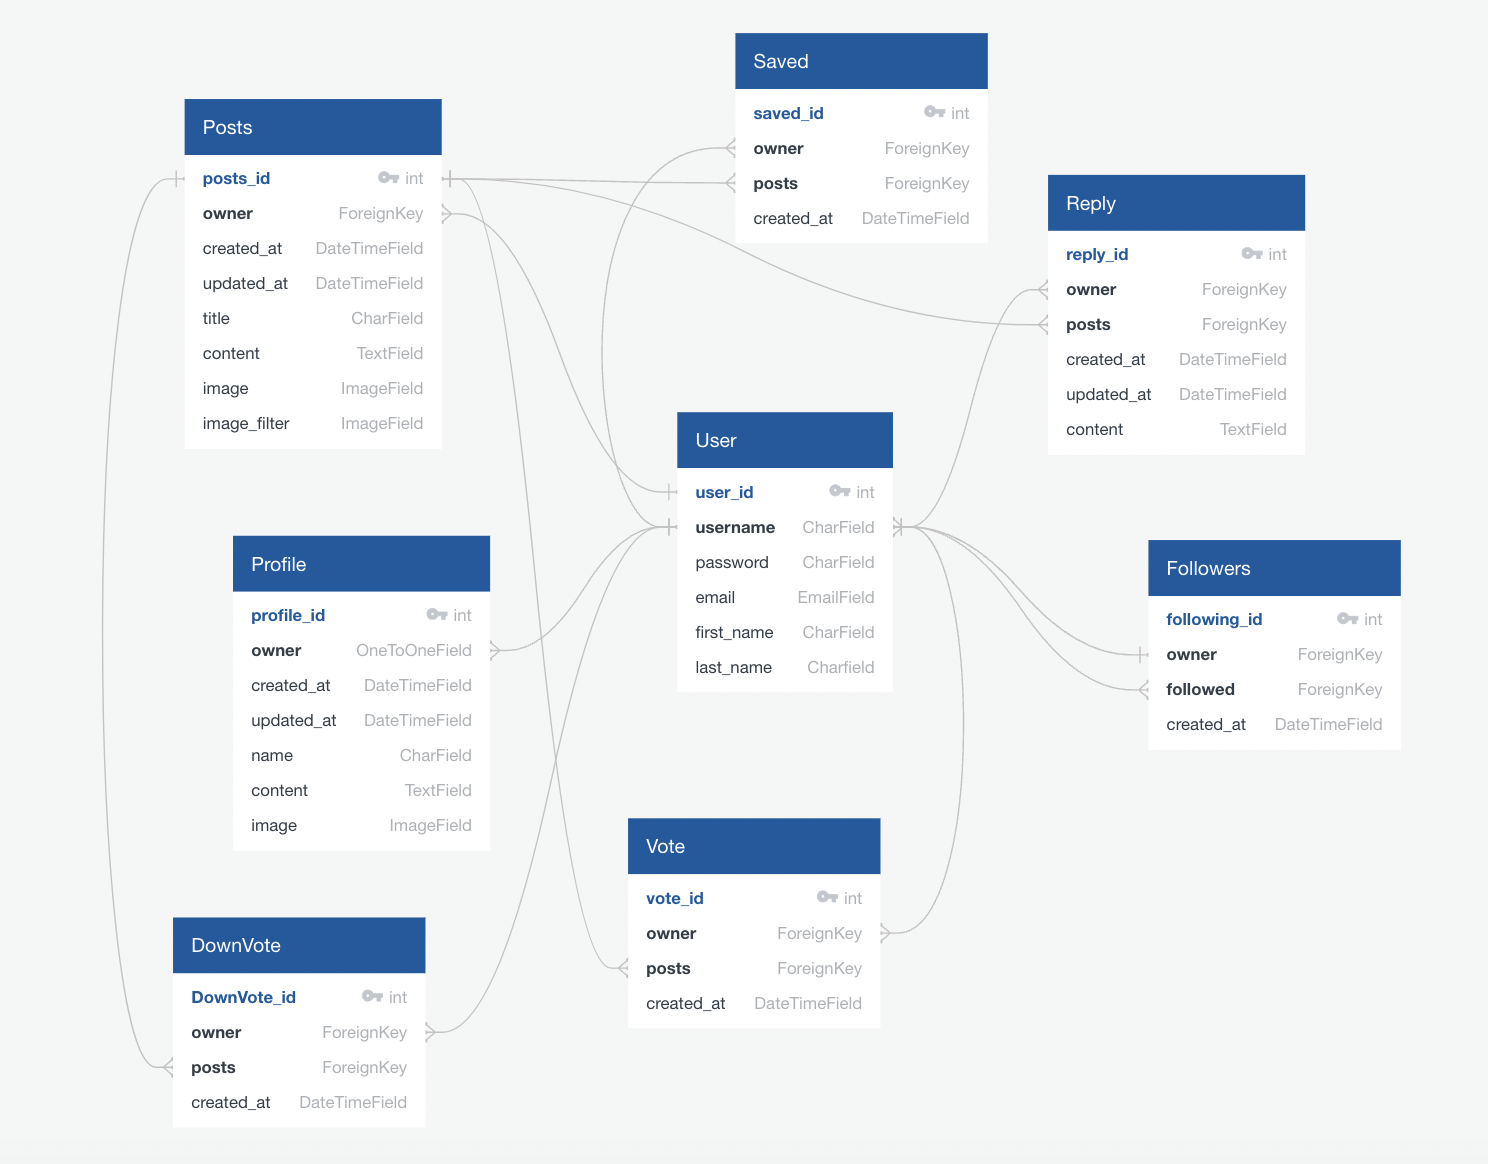
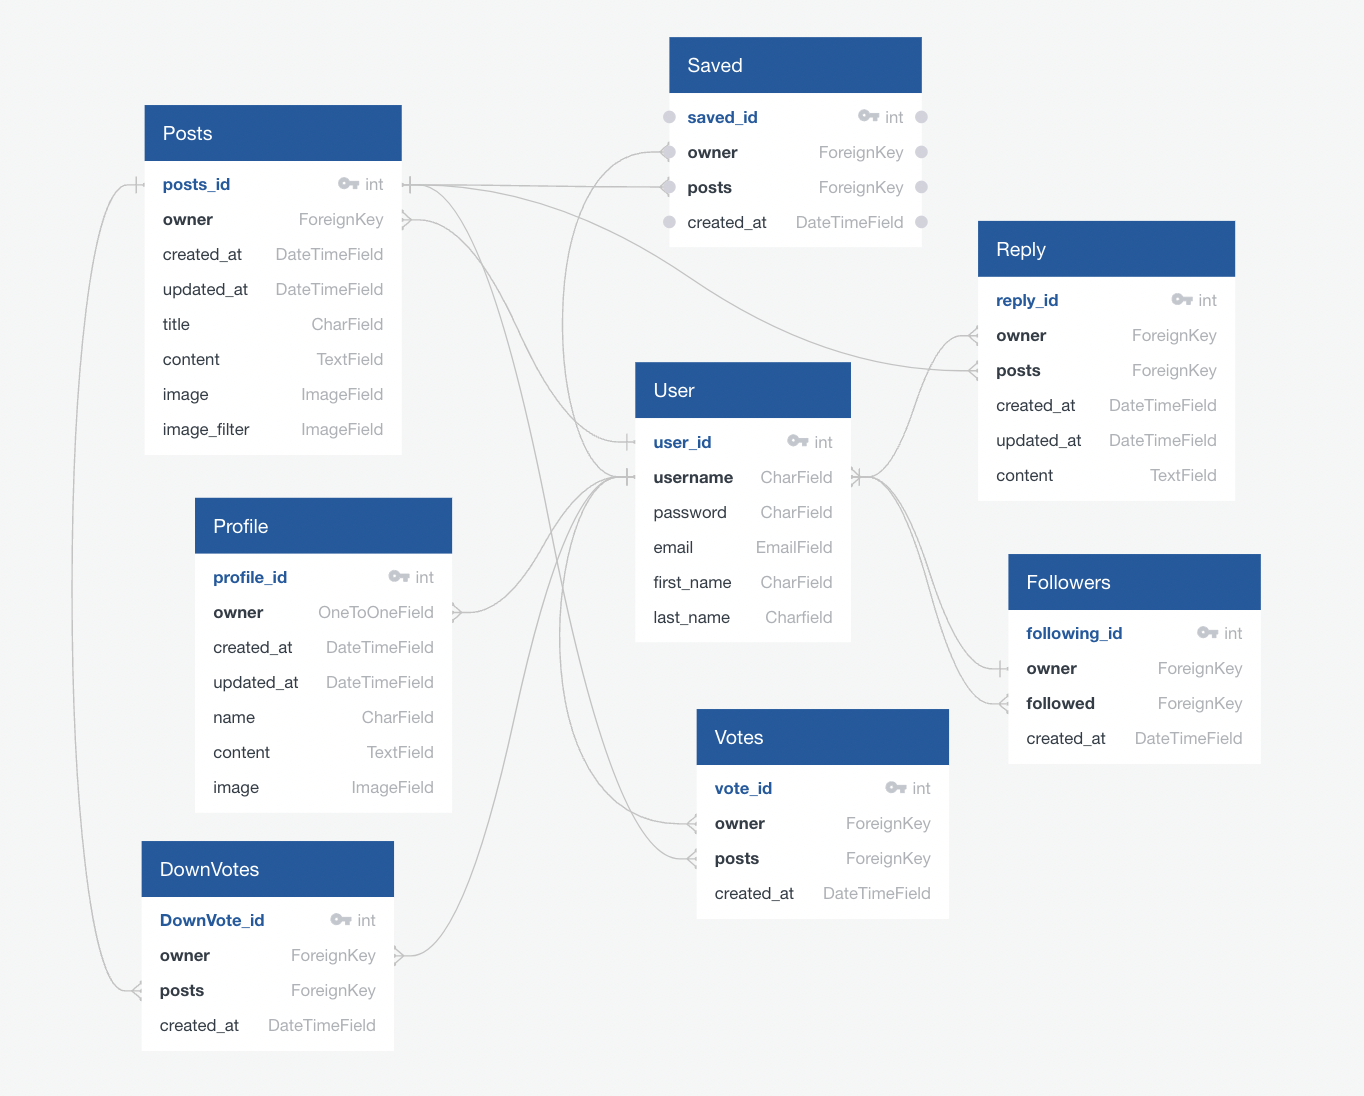
Updates to readme

diff --git a/README.md b/README.md
@@ -100,19 +100,19 @@ A live version of this API will be found here: https://petfriends-api.herokuapp.
 | root | ✅ |
 | /profiles/ | ✅ |
 | /profiles/:id/ | ✅ |
-| /post/ | ✅ |
-| /post/:id/ | ✅ |
-| /post/create/ | ✅ |
+| /posts/ | ✅ |
+| /posts/:id/ | ✅ |
+| /posts/create/ | ✅ |
 | /reply/ | ✅ |
 | /reply/:id | ✅ |
 | /followers/ | ✅ |
 | /followers/:id/ | ✅ |
 | /saved/ | ✅ |
 | /saved/:id/ | ✅ |
-| /vote/ | ✅ |
-| /vote/:id/ | ✅ |
-| /downvote/ | ✅ |
-| /downvote/:id/ | ✅ |
+| /votes/ | ✅ |
+| /votes/:id/ | ✅ |
+| /downvotes/ | ✅ |
+| /downvotes/:id/ | ✅ |
 
 ### **Automated testing**
 Coverage testing report can be seen in images below:
